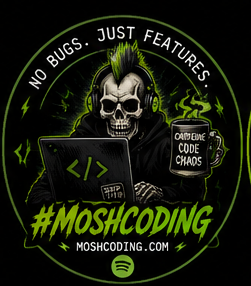
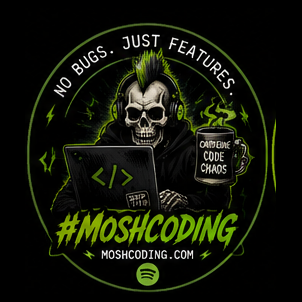
Tenant: per-platform social params, Bluesky, ?style parsing; better badges
- ?social_x=@user&social_bluesky=@user.bsky.social&… — add only the platforms you
  want (aliases: bsky/blusky, ig, gh, yt, tt…). Explicit socials suppress the
  auto-derived defaults so the linktree shows exactly what's given.
- Bluesky link + icon (bsky.app/profile/<handle>)
- ?style=metal,punk parsed into cfg.styles (feeds AI hero image, next)
- Swap landing badges to the newer square _thumb assets

diff --git a/lib/config.ts b/lib/config.ts
@@ -14,6 +14,8 @@ export type TenantConfig = {
   cta: string;
   hashtag: string;
   links: TenantLink[];
+  /** Genres from ?style=metal,punk — drives the AI hero-image generation. */
+  styles: string[];
 };
 
 export function safeDomain(dn: unknown): string | null {
@@ -53,10 +55,15 @@ function socialLinks(dn: string, override: any = {}): TenantLink[] {
   // The coming-soon domain usually isn't live yet, so the "website" link points
   // at the fallback target when one is supplied.
   const website = override.website || `https://${dn}`;
-  const s = { website, x: slug, instagram: slug, tiktok: slug, ...(override.socials || {}) };
+  // If the tenant named any socials explicitly, show ONLY those (+ website).
+  // Otherwise auto-derive the common handles from the domain slug.
+  const hasExplicit = override.socials && Object.keys(override.socials).length > 0;
+  const defaults = hasExplicit ? {} : { x: slug, instagram: slug, tiktok: slug };
+  const s: any = { website, ...defaults, ...(override.socials || {}) };
   const links: TenantLink[] = [];
   if (s.website) links.push({ label: dn, url: s.website, kind: "web" });
   if (s.x) links.push({ label: `@${s.x}`, url: `https://x.com/${s.x}`, kind: "x" });
+  if (s.bluesky) links.push({ label: `@${s.bluesky}`, url: `https://bsky.app/profile/${s.bluesky}`, kind: "bluesky" });
   if (s.instagram) links.push({ label: `@${s.instagram}`, url: `https://instagram.com/${s.instagram}`, kind: "instagram" });
   if (s.tiktok) links.push({ label: `@${s.tiktok}`, url: `https://tiktok.com/@${s.tiktok}`, kind: "tiktok" });
   if (s.github) links.push({ label: s.github, url: `https://github.com/${s.github}`, kind: "github" });
@@ -66,12 +73,40 @@ function socialLinks(dn: string, override: any = {}): TenantLink[] {
   return links;
 }
 
+// Query-param platform aliases → canonical social key.
+const PLATFORM_ALIAS: Record<string, string> = {
+  x: "x", twitter: "x",
+  bluesky: "bluesky", blusky: "bluesky", bsky: "bluesky",
+  instagram: "instagram", ig: "instagram",
+  tiktok: "tiktok", tt: "tiktok",
+  github: "github", gh: "github",
+  youtube: "youtube", yt: "youtube",
+  spotify: "spotify", discord: "discord",
+  web: "website", website: "website",
+};
+// These take a full URL rather than a bare @handle.
+const URL_PLATFORMS = new Set(["website", "spotify", "discord"]);
+
+const KNOWN_GENRES = [
+  "metal", "punk", "hardcore", "deathcore", "metalcore", "grunge", "thrash",
+  "doom", "black-metal", "nu-metal", "emo", "screamo", "industrial", "goth",
+];
+export function parseStyles(v: unknown): string[] {
+  if (typeof v !== "string") return [];
+  return v.split(",").map((s) => s.trim().toLowerCase().replace(/\s+/g, "-"))
+    .filter((s) => /^[a-z-]{2,20}$/.test(s)).slice(0, 4);
+}
+
 /** Per-request overrides threaded from the query string (see app/page.tsx). */
 export type TenantOverrides = {
   /** Social handle applied across X / Instagram / TikTok (with or without @). */
   socials?: string | null;
   /** Fallback website/domain to link to while the coming-soon domain is dark. */
   fallback?: string | null;
+  /** Per-platform handles/URLs, e.g. { x: "@a", bluesky: "@b.bsky.social" }. Keys may be aliases. */
+  social?: Record<string, string | undefined | null>;
+  /** Raw ?style= value, e.g. "metal,punk". */
+  style?: string | null;
 };
 
 export function configFor(dn: string, opts: TenantOverrides = {}): TenantConfig {
@@ -112,6 +147,20 @@ export function configFor(dn: string, opts: TenantOverrides = {}): TenantConfig 
     }
   }
 
+  // Per-platform overrides (?social_x=&social_bluesky=…) — most specific, win last.
+  if (opts.social) {
+    const per: Record<string, string> = {};
+    for (const [rawK, rawV] of Object.entries(opts.social)) {
+      const key = PLATFORM_ALIAS[rawK.toLowerCase()];
+      if (!key || typeof rawV !== "string" || !rawV.trim()) continue;
+      const val = URL_PLATFORMS.has(key)
+        ? (key === "website" ? fallbackUrl(rawV) : rawV.trim())
+        : handle(rawV);
+      if (val) per[key] = val;
+    }
+    if (Object.keys(per).length) override = { ...override, socials: { ...(override.socials || {}), ...per } };
+  }
+
   const slug = dn.split(".")[0].replace(/[^a-z0-9]/g, "");
   return {
     ...base,
@@ -119,5 +168,6 @@ export function configFor(dn: string, opts: TenantOverrides = {}): TenantConfig 
     dn,
     hashtag: override.hashtag || (sh ? `#${sh}` : `#${slug}`),
     links: socialLinks(dn, override),
+    styles: parseStyles(opts.style),
   };
 }

diff --git a/app/page.tsx b/app/page.tsx
@@ -8,10 +8,18 @@ export const dynamic = "force-dynamic";
 export default async function Page({
   searchParams,
 }: {
-  searchParams: Promise<{ dn?: string; socials?: string; fallback?: string }>;
+  searchParams: Promise<Record<string, string | undefined>>;
 }) {
-  const sp = await searchParams;
-  const dn = safeDomain(sp?.dn);
-  if (dn) return <Tenant cfg={configFor(dn, { socials: sp?.socials, fallback: sp?.fallback })} />;
-  return <Landing />;
+  const sp = (await searchParams) || {};
+  const dn = safeDomain(sp.dn);
+  if (!dn) return <Landing />;
+
+  // collect ?social_x=&social_bluesky=… into a per-platform map
+  const social: Record<string, string> = {};
+  for (const [k, v] of Object.entries(sp)) {
+    const m = k.match(/^social_(.+)$/i);
+    if (m && typeof v === "string") social[m[1]] = v;
+  }
+
+  return <Tenant cfg={configFor(dn, { socials: sp.socials, fallback: sp.fallback, social, style: sp.style })} />;
 }

diff --git a/components/LinkIcon.tsx b/components/LinkIcon.tsx
@@ -17,6 +17,7 @@ const PATHS: Record<string, React.ReactNode> = {
     <path d="M8 8.5A13 13 0 0112 8a13 13 0 014 .5M8 15.5A13 13 0 0012 16a13 13 0 004-.5M6 7l1-1s2-1 5-1 5 1 5 1l1 1c1.5 2 2 5 1.8 8-1.2 1.3-3 2-3 2l-1-1.5M6 7C4.5 9 4 12 4.2 15c1.2 1.3 3 2 3 2l1-1.5" fill="none" />
     <circle cx="9.5" cy="12.5" r="1.1" fill="currentColor" stroke="none" /><circle cx="14.5" cy="12.5" r="1.1" fill="currentColor" stroke="none" />
   </>),
+  bluesky: <path d="M12 10.8C10.9 8.6 8 5.7 5.4 4.6 3.6 3.8 2 4.3 2 6.6c0 1.9 1.1 5 1.8 5.9.9 1.1 2.6 1.3 4.2 1-1.9.3-3.6 1-2.1 3.2.8 1.2 2.7 1.6 3.5-.3.3-.7.5-1.4.6-1.7.1.3.3 1 .6 1.7.8 1.9 2.7 1.5 3.5.3 1.5-2.2-.2-2.9-2.1-3.2 1.6.3 3.3.1 4.2-1 .7-.9 1.8-4 1.8-5.9 0-2.3-1.6-2.8-3.4-2C16 5.7 13.1 8.6 12 10.8z" fill="currentColor" stroke="none" />,
   link: <path d="M9 15l6-6M10 6l1-1a4 4 0 015.7 5.7l-1 1M14 18l-1 1A4 4 0 017.3 13.3l1-1" fill="none" />,
 };
 